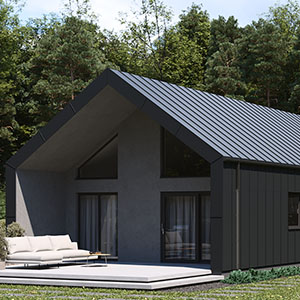
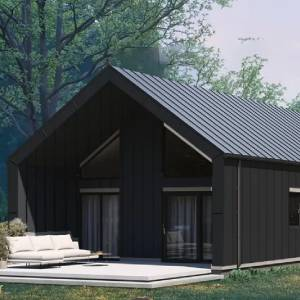
fdsaf

diff --git a/src/utils/houseConfigs.js b/src/utils/houseConfigs.js
@@ -72,6 +72,10 @@ import finishD70DarkSlatsThumb from '../assets/dom3/thumbnails/lameleciemne.png'
 import finishD70WhiteSlatsThumb from '../assets/dom3/thumbnails/lamelebiale.png'
 import finishD70BlackSlatsThumb from '../assets/dom3/thumbnails/lameleantracyt.png'
 
+import houseD70roofAnthracite from '../assets/dom3/dach/antracyt.webp'
+import houseD70roofGreen from '../assets/dom3/dach/ciemnyzielony.webp'
+import houseD70roofOrange from '../assets/dom3/dach/pomarancz.webp'
+import houseD70roofRed from '../assets/dom3/dach/czerwony.webp'
 
 
 
@@ -109,6 +113,11 @@ import finishD115DarkSlats from '../assets/dom2/tynk/lameleciemne.webp'
 import finishD115Slats from '../assets/dom2/tynk/lamele.webp'
 import finishD115AnthraciteSlats from '../assets/dom2/tynk/lameleantracyt.webp'
 
+import houseD115roofAnthracite from '../assets/dom2/dach/antracyt.webp'
+import houseD115roofGreen from '../assets/dom2/dach/antracyt.webp'
+import houseD115roofRed from '../assets/dom2/dach/czerwony.webp'
+import houseD115roofOrange from '../assets/dom2/dach/pomarancz.webp'
+
 import houseD115windowAnthracite from '../assets/dom2/okna/antracyt.webp'
 import houseD115windowGray from '../assets/dom2/okna/szary.webp'
 import houseD115windowOak from '../assets/dom2/okna/dab.webp'
@@ -139,7 +148,6 @@ import houseD126windowWalnut from '../assets/konfigurator/okna/orzech.webp'
 import houseD126windowWhite from '../assets/konfigurator/okna/biale.webp'
 
 import houseD126roofAnthracite from '../assets/konfigurator/dach/antracyt.webp'
-import houseD126roofWhite from '../assets/konfigurator/dach/bialy.webp'
 import houseD126roofGreen from '../assets/konfigurator/dach/zielony.webp'
 import houseD126roofRed from '../assets/konfigurator/dach/czerwony.webp'
 import houseD126roofOrange from '../assets/konfigurator/dach/kremowy.webp'
@@ -184,6 +192,31 @@ export const HOUSE_CONFIGS = {
           { id: 8, name: 'Białe', thumb: finishD70WhiteSlatsThumb, image: finishD70WhiteSlats },
         ]
       },
+
+      typDachu: [
+        { id: 0, name: 'Dachówka ceramiczna', thumb: dachowka, image: houseD70Roof, price: 77000 },
+        { id: 1, name: 'Blacha na rąbek', thumb: blacha, image: houseD70Roof, price: 68000 }
+      ],
+
+            
+      kolorDachu: {
+        0: [ 
+          { id: 1, name: 'Szary', thumb: roofGrayThumb, image: houseD70Roof, price: 0 },
+          { id: 2, name: 'Antracyt', thumb: roofAnthraciteThumb, image: houseD70roofAnthracite, price: 0 },
+          { id: 3, name: 'Pomarańczowy', thumb: roofOrangeThumb, image: houseD70roofOrange, price: 0 },
+          { id: 4, name: 'Ciemny Zielony', thumb: roofGreenThumb, image: houseD70roofGreen, price: 0 },
+          { id: 5, name: 'Czerwony', thumb: roofRedThumb, image: houseD70roofRed, price: 0 }
+        ],
+        1: [ 
+          { id: 1, name: 'Szary', thumb: roofGrayThumb, image: houseD70Roof, price: 0 },
+          { id: 2, name: 'Antracyt', thumb: roofAnthraciteThumb, image: houseD70roofAnthracite, price: 0 },
+          { id: 3, name: 'Pomarańczowy', thumb: roofOrangeThumb, image: houseD70roofOrange, price: 0 },
+          { id: 4, name: 'Ciemny Zielony', thumb: roofGreenThumb, image: houseD70roofGreen, price: 0 },
+          { id: 5, name: 'Czerwony', thumb: roofRedThumb, image: houseD70roofRed, price: 0 }
+        ]
+      },
+
+      
       rolety: [
         { id: 1, name: 'Szare', thumb: blindGrayThumb, image: houseD70blindGray },
         { id: 2, name: 'Antracyt', thumb: blindBlackThumb, image: houseD70blindBlack },
@@ -230,6 +263,31 @@ export const HOUSE_CONFIGS = {
           { id: 8, name: 'Białe', thumb: finishD115WhiteSlatsThumb, image: finishD115WhiteSlats },
         ]
       },
+
+      typDachu: [
+        { id: 0, name: 'Dachówka ceramiczna', thumb: dachowka, image: houseD126Roof, price: 77000 },
+        { id: 1, name: 'Blacha na rąbek', thumb: blacha, image: houseD126Roof, price: 68000 }
+      ],
+
+            
+      kolorDachu: {
+        0: [ 
+          { id: 1, name: 'Szary', thumb: roofGrayThumb, image: houseD115Roof, price: 0 },
+          { id: 2, name: 'Antracyt', thumb: roofAnthraciteThumb, image: houseD115roofAnthracite, price: 0 },
+          { id: 3, name: 'Pomarańczowy', thumb: roofOrangeThumb, image: houseD115roofOrange, price: 0 },
+          { id: 4, name: 'Ciemny Zielony', thumb: roofGreenThumb, image: houseD115roofGreen, price: 0 },
+          { id: 5, name: 'Czerwony', thumb: roofRedThumb, image: houseD115roofRed, price: 0 }
+        ],
+        1: [ 
+          { id: 1, name: 'Szary', thumb: roofGrayThumb, image: houseD115Roof, price: 0 },
+          { id: 2, name: 'Antracyt', thumb: roofAnthraciteThumb, image: houseD115roofAnthracite, price: 0 },
+          { id: 3, name: 'Pomarańczowy', thumb: roofOrangeThumb, image: houseD115roofOrange, price: 0 },
+          { id: 4, name: 'Ciemny Zielony', thumb: roofGreenThumb, image: houseD115roofGreen, price: 0 },
+          { id: 5, name: 'Czerwony', thumb: roofRedThumb, image: houseD115roofRed, price: 0 }
+        ]
+      },
+
+      
       rolety: [
         { id: 1, name: 'Szare', thumb: blindGrayThumb, image: houseD115blindGray },
         { id: 2, name: 'Białe', thumb: blindWhiteThumb, image: houseD115blindWhite },
@@ -281,7 +339,6 @@ export const HOUSE_CONFIGS = {
 
       
       typDachu: [
-        // { id: 0, name: 'Brak', image: null, price: 0 },
         { id: 0, name: 'Dachówka ceramiczna', thumb: dachowka, image: houseD126Roof, price: 77000 },
         { id: 1, name: 'Blacha na rąbek', thumb: blacha, image: houseD126Roof, price: 68000 }
       ],
@@ -292,14 +349,14 @@ export const HOUSE_CONFIGS = {
           { id: 1, name: 'Szary', thumb: roofGrayThumb, image: houseD126Roof, price: 0 },
           { id: 2, name: 'Antracyt', thumb: roofAnthraciteThumb, image: houseD126roofAnthracite, price: 0 },
           { id: 3, name: 'Pomarańczowy', thumb: roofOrangeThumb, image: houseD126roofOrange, price: 0 },
-          { id: 4, name: 'Ciemny Zielony', thumb: roofGrayThumb, image: houseD126roofGreen, price: 0 },
+          { id: 4, name: 'Ciemny Zielony', thumb: roofGreenThumb, image: houseD126roofGreen, price: 0 },
           { id: 5, name: 'Czerwony', thumb: roofRedThumb, image: houseD126roofRed, price: 0 }
         ],
         1: [ 
           { id: 1, name: 'Szary', thumb: roofGrayThumb, image: houseD126Roof, price: 0 },
           { id: 2, name: 'Antracyt', thumb: roofAnthraciteThumb, image: houseD126roofAnthracite, price: 0 },
           { id: 3, name: 'Pomarańczowy', thumb: roofOrangeThumb, image: houseD126roofOrange, price: 0 },
-          { id: 4, name: 'Ciemny Zielony', thumb: roofGrayThumb, image: houseD126roofGreen, price: 0 },
+          { id: 4, name: 'Ciemny Zielony', thumb: roofGreenThumb, image: houseD126roofGreen, price: 0 },
           { id: 5, name: 'Czerwony', thumb: roofRedThumb, image: houseD126roofRed, price: 0 }
         ]
       },

diff --git a/src/components/ConfigPanel/ConfigPanel.jsx b/src/components/ConfigPanel/ConfigPanel.jsx
@@ -14,17 +14,12 @@ const ConfigPanel = ({ houseConfig, selections, onSelectionChange }) => {
   }
 
   // Funkcja do filtrowania opcji typu dachu
-  const getFilteredTypDachuOptions = () => {
-    const allOptions = houseConfig.options.typDachu || [];
-    
-    // Jeśli wybrano elewację surową (id: 0), pokazuj wszystkie opcje
-    if (selections.tynk === 0) {
-      return allOptions;
-    }
-    
-    // Dla innych elewacji, ukryj opcję "Brak" (id: 0)
-    return allOptions.filter(option => option.id !== 0);
-  }
+const getFilteredTypDachuOptions = () => {
+  const allOptions = houseConfig.options.typDachu || [];
+  
+  // Jeśli chcesz zawsze pokazywać wszystkie opcje dachu:
+  return allOptions;
+}
 
   const renderSection = (sectionKey) => {
     const section = houseConfig.options[sectionKey]

diff --git a/src/components/HouseVisualization/HouseVisualization.jsx b/src/components/HouseVisualization/HouseVisualization.jsx
@@ -129,13 +129,13 @@ const renderElement = (type, id, className = type) => {
         />
       </div>
       
-      {/* <div className='element-pickable dach'>
+      <div className='element-pickable dach'>
         <img 
           src={houseConfig.overlayImages?.dach} 
           alt="Dach" 
           style={{ opacity: allImagesLoaded ? 1 : 0 }}
         />
-      </div> */}
+      </div>
 {selections.typDachu && selections.typDachu !== 0 && selections.kolorDachu && renderElement('kolorDachu', selections.kolorDachu, 'dach')}
       {selections.roletyEnabled && selections.rolety && selections.rolety !== 0 && renderElement('rolety', selections.rolety)}
       {selections.okna && selections.okna !== 0 && renderElement('okna', selections.okna)}
